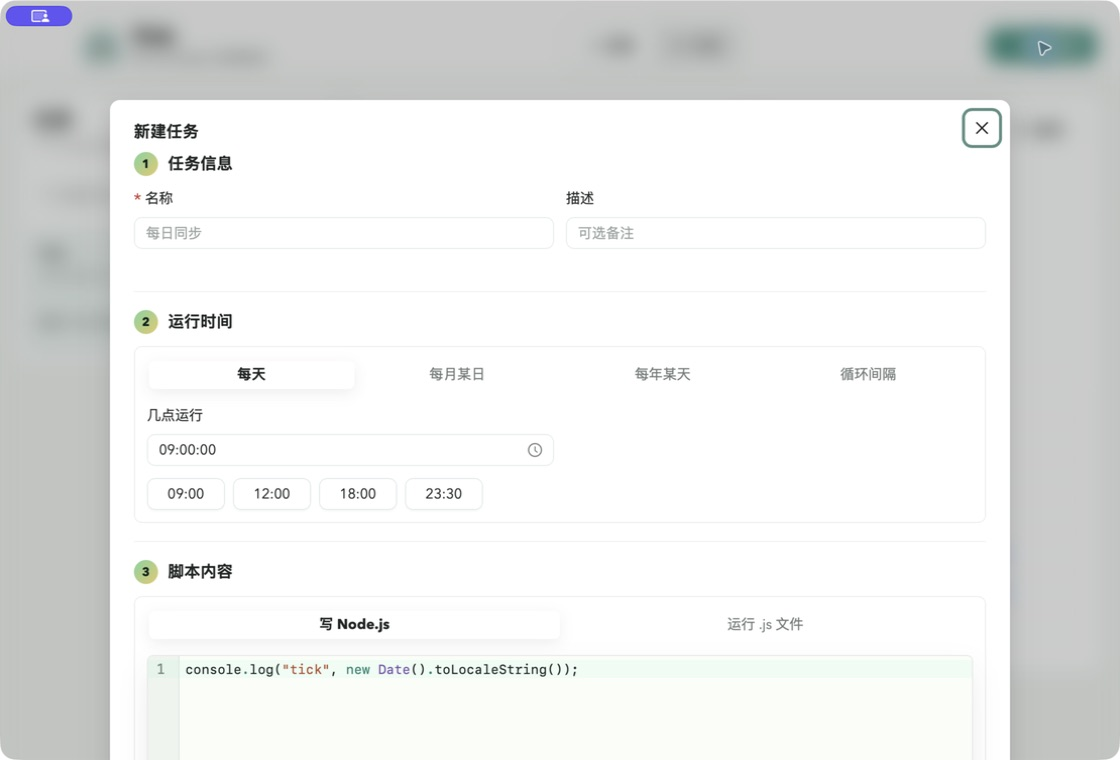
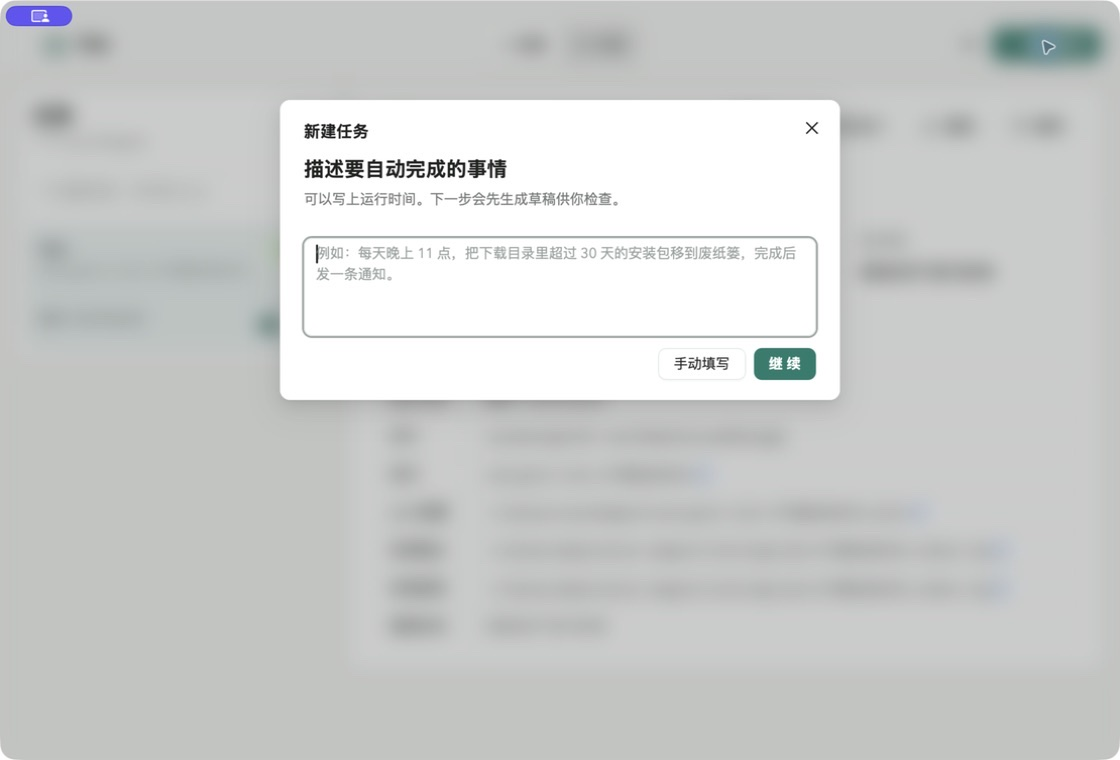
docs: rewrite README in a more personal voice

diff --git a/README.md b/README.md
@@ -1,65 +1,65 @@
 <div align="center">
   <img src="src/assets/tick-mascot.png" width="92" alt="Tick">
   <h1>Tick</h1>
-  <p>一个用来折腾 macOS LaunchAgent 的小工具。</p>
+  <p>在窗口里管好自己的 macOS LaunchAgent。</p>
   <p>
     <a href="https://github.com/yuxino/tick/releases/latest">下载</a>
-    · <a href="#自己跑起来">从源码运行</a>
+    · <a href="#从源码运行">从源码运行</a>
     · <a href="https://github.com/yuxino/tick/issues">提 Issue</a>
   </p>
 </div>
 
 ![Tick 主界面](docs/images/tick-overview.jpg)
 
-## 为什么会有 Tick
+## 这是个什么东西
 
-Tick 是两个念头碰到一起的结果：我想把 LaunchAgent 搞明白，正好 DeepSeek V4 刚出，也想找个真实点的东西试试它，而不是只在聊天框里问几道题。
+我写 Tick，最初只是想弄明白 macOS 的 LaunchAgent。
 
-LaunchAgent 这边，一开始只是嫌 plist 难写、`launchctl` 难记，出了问题还得四处找日志。后来干脆把常用操作做成了界面：任务什么时候跑、实际写出了什么 plist、stdout 和 stderr 在哪，都可以直接看到。
+plist 不难，但手写很烦；`launchctl` 的命令也总记不住。任务没跑起来时，还要再去找 stdout、stderr 和加载状态。Tick 把这些东西放进了一个窗口：什么时候运行、实际生成了什么配置、日志写到哪，都能直接看。
 
-DeepSeek 这边，我更想知道它能不能把一句模糊的需求，变成一个真的能跑、能检查、出错也找得到日志的自动化。所以 Tick 里的 AI 不只是补全代码，它会一起生成任务名称、运行时间、脚本和风险提示，再交给人确认。
+项目开工时正好赶上 DeepSeek V4 发布，我也想找个真实场景试试它。于是 Tick 多了一个可选的 AI 入口：说一句想自动完成的事，它会起草运行时间和脚本。草稿不会直接启用，还是要自己看过、试过，再保存。
 
-所以它不是 Alfred、Raycast 或专业自动化工具的替代品。更准确地说，Tick 是我同时折腾 LaunchAgent 和 DeepSeek V4 时做出来的实验品，现在也确实能拿来管理一些简单的定时任务。
+这不是 Alfred 或 Raycast 的替代品，也没打算包办所有自动化。它就是一个小工具，顺便记录我学习 LaunchAgent 和体验 DeepSeek V4 的过程。
 
 <table>
   <tr>
-    <td width="50%"><img src="docs/images/tick-create-job.jpg" alt="创建任务"></td>
+    <td width="50%"><img src="docs/images/tick-create-job.jpg" alt="新建任务"></td>
     <td width="50%"><img src="docs/images/tick-logs.jpg" alt="查看日志"></td>
   </tr>
   <tr>
-    <td align="center">创建任务时顺便看看 plist</td>
-    <td align="center">任务不听话就翻 stdout / stderr</td>
+    <td align="center">说一句想做什么，也可以直接手动填写</td>
+    <td align="center">任务没动静时，先看看 stdout 和 stderr</td>
   </tr>
 </table>
 
-## 现在能做什么
+## 能做的事
 
 - 创建、编辑、启停和删除 Tick 自己管理的 LaunchAgent
-- 按日期、时间或固定间隔运行任务
-- 跑 shell、脚本文件和 Node.js 脚本
-- 手动运行一次，确认脚本到底会不会工作
-- 看日志、看 plist，也可以打开日程视图找下一次运行时间
-- 用一句话生成任务名称、运行时间、脚本和风险提示，再检查、试运行和保存
+- 按固定日期、时间或间隔运行任务
+- 执行 Node.js、脚本文件和普通命令
+- 保存前先调试运行一次
+- 查看 plist、stdout、stderr 和接下来的运行日程
+- 用 DeepSeek 起草一个完整任务
 
-Tick 只碰自己创建的用户级任务，不会去改系统 daemon。
+Tick 只管理它自己创建的用户级任务，不碰系统 daemon。
 
-| Tick 写入的东西 | 位置 |
+| 文件 | 位置 |
 | --- | --- |
 | LaunchAgent | `~/Library/LaunchAgents/com.gavin.tick.*.plist` |
 | 日志和内联脚本 | `~/Library/Application Support/tick/` |
-| DeepSeek API Key | 应用设置目录中的 `settings.json`（仅当前用户可读写） |
+| DeepSeek API Key | 应用设置目录中的 `settings.json` |
 
-固定时间使用 `StartCalendarInterval`，固定间隔使用 `StartInterval`。LaunchAgent 不会加载交互式 shell 的 profile，所以解释器、脚本和工作目录最好写绝对路径。这个坑我已经踩过了。
+固定时间对应 `StartCalendarInterval`，固定间隔对应 `StartInterval`。还有一个容易踩的坑：LaunchAgent 不会加载交互式 shell 的 profile，所以解释器、脚本和工作目录最好写绝对路径。
 
-## DeepSeek
+## DeepSeek 是可选的
 
-DeepSeek V4 是这个项目一开始就想试的另一半，不过功能仍然是可选的。点右上角设置，填一次自己的 API Key，之后 Tick 会自动读取。
+不用 AI，Tick 也能正常创建和管理任务。
 
-AI 入口不是单独写一段代码，而是根据一句话搭好整个任务草稿：名称、说明、运行计划、脚本和风险提示都会一起生成。Tick 不会直接启用它，先检查和试运行，觉得没问题再保存。
+如果要用，在右上角设置里填一次 API Key。Tick 会把 Key 存在当前用户的应用设置目录，文件权限限制为当前用户读写。它不会进入项目源码或任务日志，但仍然是本机明文文件。不想留着时，可以随时从设置里删除。
 
-Key 存在应用设置目录中，文件权限限制为当前用户读写。它不会进源码或日志，但仍然是本机明文文件；如果电脑账户本身不可信，不要使用这个功能。不想用了，直接在设置里删掉。
+AI 生成的是一份待检查的草稿，包括名称、说明、运行计划、脚本和风险提示。Tick 不会绕过确认直接把它挂进 LaunchAgent。
 
-## 自己跑起来
+## 从源码运行
 
 需要 Node.js、Rust，以及能构建 Tauri 2 应用的 macOS 环境。
 
@@ -70,7 +70,7 @@ npm install
 npm run tauri dev
 ```
 
-跑一下检查：
+检查前端和 Rust：
 
 ```bash
 npm run build
@@ -84,12 +84,10 @@ cargo test
 npm run tauri build
 ```
 
-## 还在长
+## 项目状态
 
-Tick 目前只支持 macOS，也还是个很早期的小项目。界面、任务类型和错误提示都可能继续改。
+Tick 目前只支持 macOS，功能和界面还会继续调整。Issue 和 PR 都欢迎，开发约定见 [CONTRIBUTING.md](CONTRIBUTING.md)，安全问题请用 [GitHub 的私密漏洞报告](https://github.com/yuxino/tick/security/advisories/new)。
 
-想一起折腾的话，Issue 和 PR 都欢迎。开发约定在 [CONTRIBUTING.md](CONTRIBUTING.md)，安全问题请走 [私密漏洞报告](https://github.com/yuxino/tick/security/advisories/new)。
-
-角色图标是为 Tick 画的原创时钟精灵，不属于现有角色系列。
+图标是为 Tick 画的原创时钟精灵，不属于现有角色系列。
 
 [MIT](LICENSE) © 2026 [yuxino](https://github.com/yuxino)
